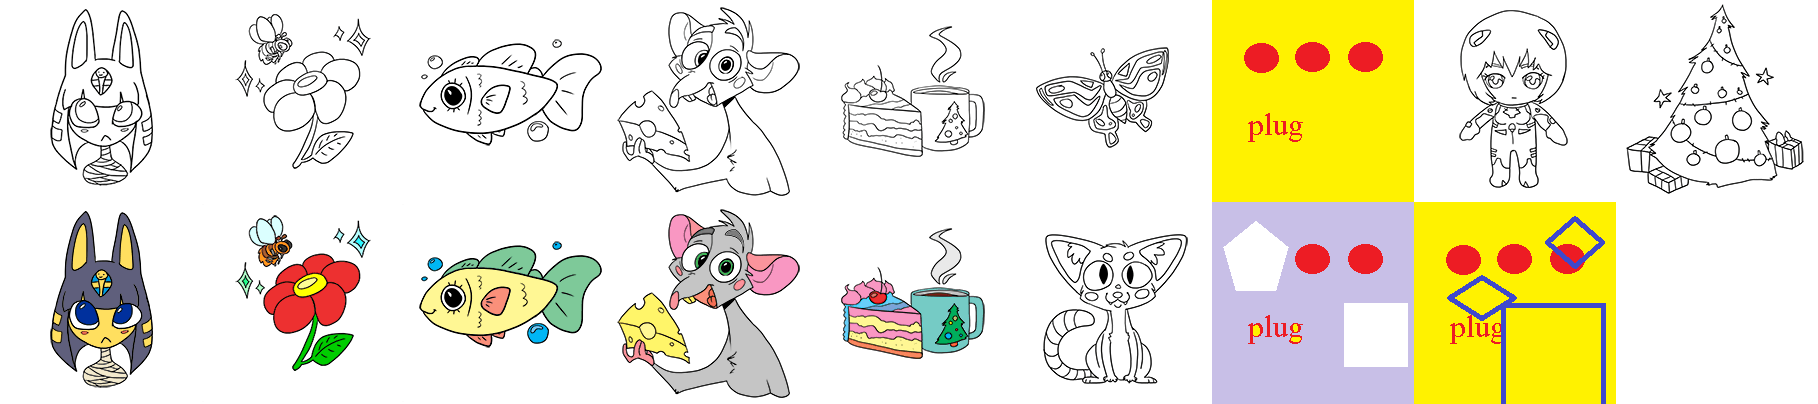
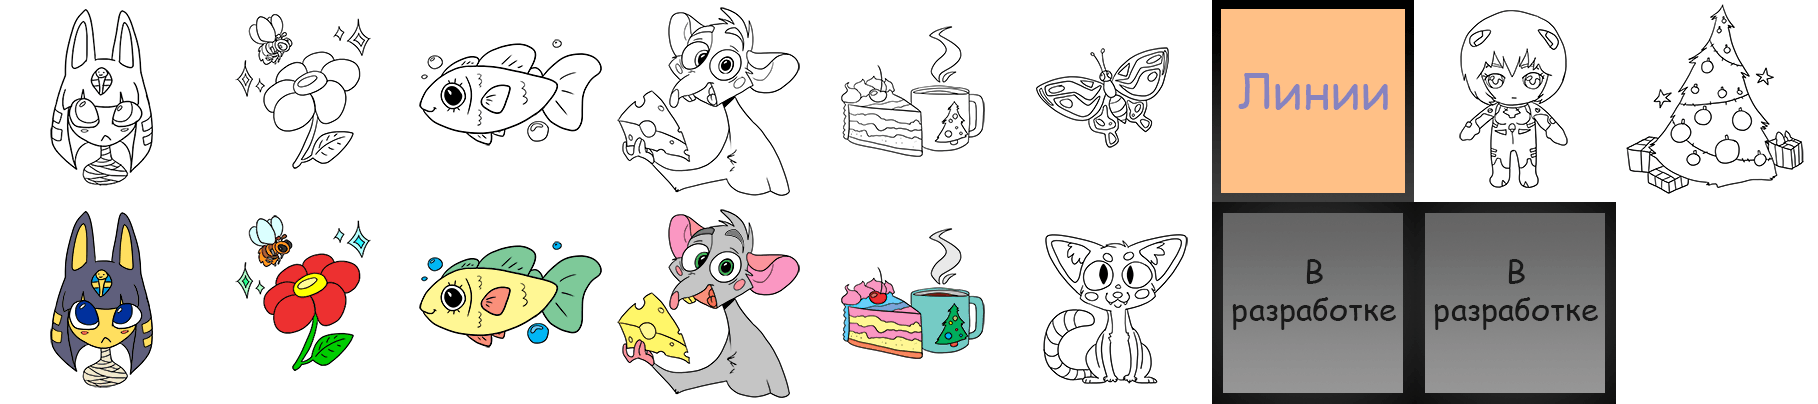
update

Changed region(s): [[0.6469, 0.0, 0.8933, 1.0]]

diff --git a/src/Color-it/core/src/com/forward/colorit/snake/Snake.java b/src/Color-it/core/src/com/forward/colorit/snake/Snake.java
@@ -16,14 +16,16 @@ import com.forward.colorit.coloring.GameEndEvent;
 import com.forward.colorit.tool.Direction;
 
 public class Snake extends WidgetGroup{
+    private static final String TAG = "Snake";
+
     public static final float WORLD_WIDTH = 2000;
     public static final float WORLD_HEIGHT = 2000;
     private static final int upKey = Input.Keys.UP;
     private static final int downKey = Input.Keys.DOWN;
     private static final int rightKey = Input.Keys.RIGHT;
     private static final int leftKey = Input.Keys.LEFT;
-    private static final float speed = 10;
-    private static final float sectorSize = 50;
+    private static final float speed = 50;
+    private static final float sectorSize = 200;
 
 
     private final Point head = new Point(Direction.UP);
@@ -31,6 +33,7 @@ public class Snake extends WidgetGroup{
     private final Queue<TurnPoint> turnPoints = new Queue<>();
     private final Rectangle border = new Rectangle(0,0, WORLD_WIDTH, WORLD_HEIGHT);
     private boolean die = false;
+    private boolean paused = false;
 
     private final Image headImg = new Image(Core.core().getTextures().findRegion("snake_head"));
     private final Image tailImg = new Image(Core.core().getTextures().findRegion("snake_tail"));
@@ -38,33 +41,65 @@ public class Snake extends WidgetGroup{
     private final Queue<SnakeBodyActor> snakeBodyActors = new Queue<>();
 
     public Snake() {
-        headImg.setOrigin(Align.right);
-        tailImg.setOrigin(Align.left);
+        addActor(headImg);
+        addActor(tailImg);
+        headImg.toFront();
+        tailImg.toFront();
         tail.getPos().x = WORLD_WIDTH*.5f;
         head.getPos().x = tail.getPos().x;
-        head.getPos().y = sectorSize;
+        head.getPos().y = sectorSize*2;
+
+        SnakeBodyActor firstBody = new SnakeBodyActor(tail, head);
+        addActor(firstBody);
+        firstBody.toBack();
+        snakeBodyActors.addLast(firstBody);
     }
 
     @Override
     public void act(float delta) {
         super.act(delta);
-        if (die) return;
+        if (die || paused) return;
         updatePoint(head, delta);
         updatePoint(tail, delta);
-        updateTailHead();
-        checkBorder();
+        updateBody();
         checkTailReachFirstTurnPoint();
         handleKeys();
         die = checkCollision();
+        checkBorder();
         if (die)
             fire(new GameEndEvent(false));
     }
 
-    private void updateTailHead(){
+    private void updateBody(){
+        float ratioH = getHeight() / WORLD_HEIGHT;
+        float ratioW = getWidth() / WORLD_WIDTH;
+        headImg.setSize(sectorSize * ratioW, sectorSize * ratioH);
+        tailImg.setSize(sectorSize * ratioW, sectorSize * ratioH);
+        headImg.setOrigin(Align.center);
+        tailImg.setOrigin(Align.center);
         headImg.setRotation(head.getDirection().degree);
-        headImg.setPosition(head.getPos().x, head.getPos().y);
+        headImg.setPosition(head.getPos().x * ratioW, head.getPos().y * ratioH);
         tailImg.setRotation(tail.getDirection().degree);
-        tailImg.setPosition(tail.getPos().x, tail.getPos().y);
+        tailImg.setPosition(tail.getPos().x * ratioW, tail.getPos().y * ratioH);
+        for (SnakeTurnActor turnActor : snakeTurnActors) {
+            turnActor.setSize(sectorSize * ratioW, sectorSize * ratioH);
+            turnActor.setOrigin(Align.center);
+            turnActor.setPosition(turnActor.getPoint().getPos().x * ratioW, turnActor.getPoint().getPos().y * ratioH);
+        }
+        for (SnakeBodyActor bodyActor : snakeBodyActors) {
+            switch (bodyActor.getA().getDirection()) {
+                case UP:
+                case DOWN:
+                    bodyActor.setSize(sectorSize * ratioW, Math.abs(bodyActor.getB().getPos().y - bodyActor.getA().getPos().y) * ratioH);
+                    break;
+                default:
+                    bodyActor.setSize(Math.abs(bodyActor.getB().getPos().x - bodyActor.getA().getPos().x) * ratioW, sectorSize * ratioH);
+                    break;
+            }
+            bodyActor.setOrigin(Align.center);
+            bodyActor.setPosition((bodyActor.getA().getPos().x + (bodyActor.getB().getPos().x - bodyActor.getA().getPos().x)*.5f) * ratioW,
+                    (bodyActor.getA().getPos().y + (bodyActor.getB().getPos().y - bodyActor.getA().getPos().y)*.5f) * ratioH);
+        }
     }
 
     private void updatePoint(Point p, float delta){
@@ -72,11 +107,15 @@ public class Snake extends WidgetGroup{
     }
 
     public void turn(Direction to) {
+        Gdx.app.debug(TAG, "turn() called with: to = [" + to + "]");
         if (head.getDirection().equals(to)) return;
-        snakeBodyActors.last().setB(turnPoints.first());
         TurnPoint turnPoint = new TurnPoint(to, head.getDirection());
+        turnPoint.getPos().set(head.getPos());
+        head.setDirection(to);
+        if (snakeBodyActors.notEmpty()) snakeBodyActors.last().setB(turnPoint);
         turnPoints.addLast(turnPoint);
         snakeTurnActors.addLast(new SnakeTurnActor(turnPoint));
+        addActor(snakeTurnActors.last());
         snakeBodyActors.addLast(new SnakeBodyActor(turnPoint, head));
     }
 
@@ -93,11 +132,18 @@ public class Snake extends WidgetGroup{
     }
 
     private void checkTailReachFirstTurnPoint(){
+        if (turnPoints.isEmpty()) return;
         if ((turnPoints.first().getPos().x - tail.getPos().x) * tail.getDirection().direction_x < 0 ||
                 (turnPoints.first().getPos().y - tail.getPos().y) * tail.getDirection().direction_y < 0) {
+            Gdx.app.debug(TAG, "checkTailReachFirstTurnPoint: tail reach point!");
             turnPoints.removeFirst();
-            snakeTurnActors.removeFirst();
-            snakeBodyActors.removeFirst();
+            getChildren().removeValue(snakeTurnActors.removeFirst(), true);
+            getChildren().removeValue(snakeBodyActors.removeFirst(), true);
+            if (turnPoints.notEmpty()) {
+                tail.setDirection(turnPoints.last().getDirection());
+            } else {
+                tail.setDirection(head.getDirection());
+            }
             snakeBodyActors.last().setA(tail);
         }
     }
@@ -133,6 +179,14 @@ public class Snake extends WidgetGroup{
 
     public boolean isDie() {
         return die;
+    }
+
+    public boolean isPaused() {
+        return paused;
+    }
+
+    public void setPaused(boolean paused) {
+        this.paused = paused;
     }
 
     public final class TurnClickListener extends ClickListener {

diff --git a/src/Color-it/core/src/com/forward/colorit/snake/SnakeBodyActor.java b/src/Color-it/core/src/com/forward/colorit/snake/SnakeBodyActor.java
@@ -11,27 +11,18 @@ import com.forward.colorit.Core;
 import com.forward.colorit.tool.Direction;
 
 public class SnakeBodyActor extends Image {
-    private final Animation<TextureRegion> animation;
+    //private final Animation<TextureRegion> animation;
     private Point a;
     private Point b;
 
     private float dt;
 
     public SnakeBodyActor(Point a, Point b) {
+        super(Core.core().getTextures().findRegion("snake_body"));
         this.a = a;
         this.b = b;
-        animation = new Animation<TextureRegion>(1 / 60f, Core.core().getTextures().findRegions("snakeBody"), Animation.PlayMode.LOOP);
-        setDt(0);
-        setOrigin(a.getDirection().equals(Direction.UP) ? Align.bottom :
-                a.getDirection().equals(Direction.DOWN) ? Align.top : a.getDirection().equals(Direction.LEFT) ? Align.right : Align.left);
-        setRotation(new Vector2(a.getDirection().direction_x, a.getDirection().direction_y).angleDeg());
-        setPosition(a.getPos().x, a.getPos().y);
-    }
-
-    @Override
-    public void act(float delta) {
-        super.act(delta);
-
+        //animation = new Animation<TextureRegion>(1 / 60f, Core.core().getTextures().findRegions("snakeBody"), Animation.PlayMode.LOOP);
+        setOrigin(Align.center);
     }
 
     public float getDt() {
@@ -40,7 +31,7 @@ public class SnakeBodyActor extends Image {
 
     public void setDt(float dt) {
         this.dt = dt;
-        setDrawable(new TiledDrawable(animation.getKeyFrame(dt)));
+        //setDrawable(new TiledDrawable(animation.getKeyFrame(dt)));
     }
 
     public Point getA() {

diff --git a/src/Color-it/core/src/com/forward/colorit/snake/SnakeTurnActor.java b/src/Color-it/core/src/com/forward/colorit/snake/SnakeTurnActor.java
@@ -9,12 +9,15 @@ import com.badlogic.gdx.utils.Align;
 import com.forward.colorit.Core;
 
 public class SnakeTurnActor extends Image {
-    private final Animation<TextureRegion> animation;
+    private final TurnPoint point;
+    //private final Animation<TextureRegion> animation;
 
     private float dt;
 
     public SnakeTurnActor(TurnPoint point) {
-        animation = new Animation<>(1 / 60f, Core.core().getTextures().findRegions("snakeTurn"), Animation.PlayMode.LOOP);
+        super(Core.core().getTextures().findRegion("snake_turn"));
+        this.point = point;
+        //animation = new Animation<>(1 / 60f, Core.core().getTextures().findRegions("snakeTurn"), Animation.PlayMode.LOOP);
         setDt(0);
         setOrigin(Align.center);
         setRotation(new Vector2(point.getDirection().direction_x, point.getDirection().direction_y).angleDeg());
@@ -28,6 +31,10 @@ public class SnakeTurnActor extends Image {
 
     public void setDt(float dt) {
         this.dt = dt;
-        setDrawable(new TextureRegionDrawable(animation.getKeyFrame(dt)));
+        //setDrawable(new TextureRegionDrawable(animation.getKeyFrame(dt)));
+    }
+
+    public TurnPoint getPoint() {
+        return point;
     }
 }

diff --git a/src/Color-it/core/src/com/forward/colorit/snake/SnakeSubGame.java b/src/Color-it/core/src/com/forward/colorit/snake/SnakeSubGame.java
@@ -1,20 +1,27 @@
 package com.forward.colorit.snake;
 
 import com.badlogic.gdx.scenes.scene2d.Actor;
+import com.badlogic.gdx.scenes.scene2d.ui.Image;
 import com.badlogic.gdx.scenes.scene2d.ui.WidgetGroup;
+import com.badlogic.gdx.scenes.scene2d.utils.TiledDrawable;
+import com.forward.colorit.Core;
 import com.forward.colorit.SubGameGroup;
 
-public class SnakeSubGame extends WidgetGroup implements SubGameGroup {
+public class SnakeSubGame extends WidgetGroup {
 
     private final Snake snake = new Snake();
+    private final Image background = new Image(Core.core().getUi().getDrawable("GRAY_6_PIXEL"));//new Image(new TiledDrawable(Core.core().getTextures().findRegion("snake_grid_cell")));
 
     public SnakeSubGame(){
+        addActor(background);
         addActor(snake);
+        background.toBack();
+        background.setFillParent(true);
+        snake.toFront();
         snake.setFillParent(true);
     }
 
-    @Override
     public Actor getSubGameInfoActor() {
-        return null;
+        return new Actor();
     }
 }

diff --git a/src/Color-it/core/src/com/forward/colorit/ui/SelectSubGameMenu.java b/src/Color-it/core/src/com/forward/colorit/ui/SelectSubGameMenu.java
@@ -11,6 +11,7 @@ import com.badlogic.gdx.scenes.scene2d.utils.ClickListener;
 import com.badlogic.gdx.utils.Json;
 import com.forward.colorit.Core;
 import com.forward.colorit.coloring.SubGame;
+import com.forward.colorit.tool.SubGameStarters;
 
 public class SelectSubGameMenu extends Table {
 
@@ -52,6 +53,8 @@ public class SelectSubGameMenu extends Table {
     private class SubGameActorClickListener extends ClickListener {
         @Override
         public void clicked(InputEvent event, float x, float y) {
+            SubGame subGame = (SubGame) event.getListenerActor().getUserObject();
+            if (!subGame.getStarter().equals("LINES")) return;// FIXME: 08.12.2021
             SelectSubGameMenu.this.setVisible(false);
             PlayMenu pm = new PlayMenu(menu, SelectSubGameMenu.this, (SubGame) event.getListenerActor().getUserObject());
             getStage().addActor(pm);
